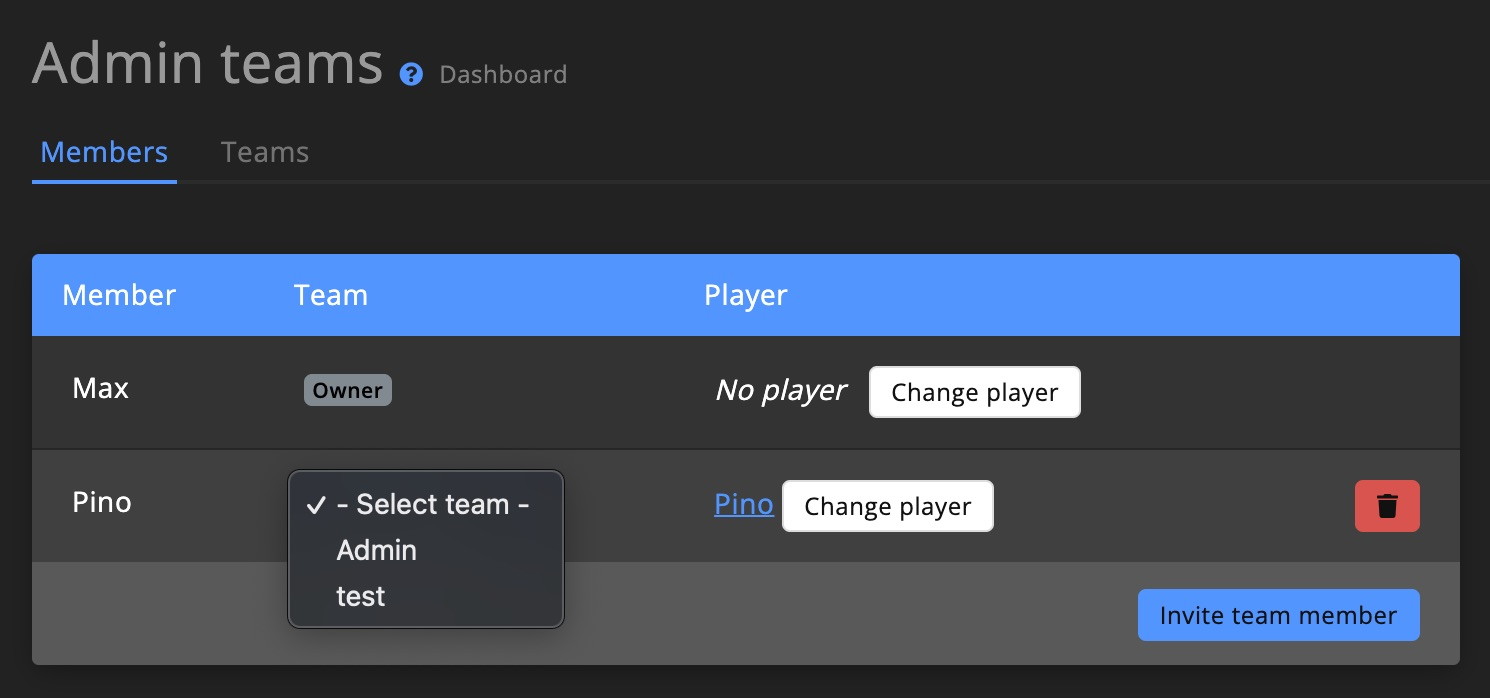
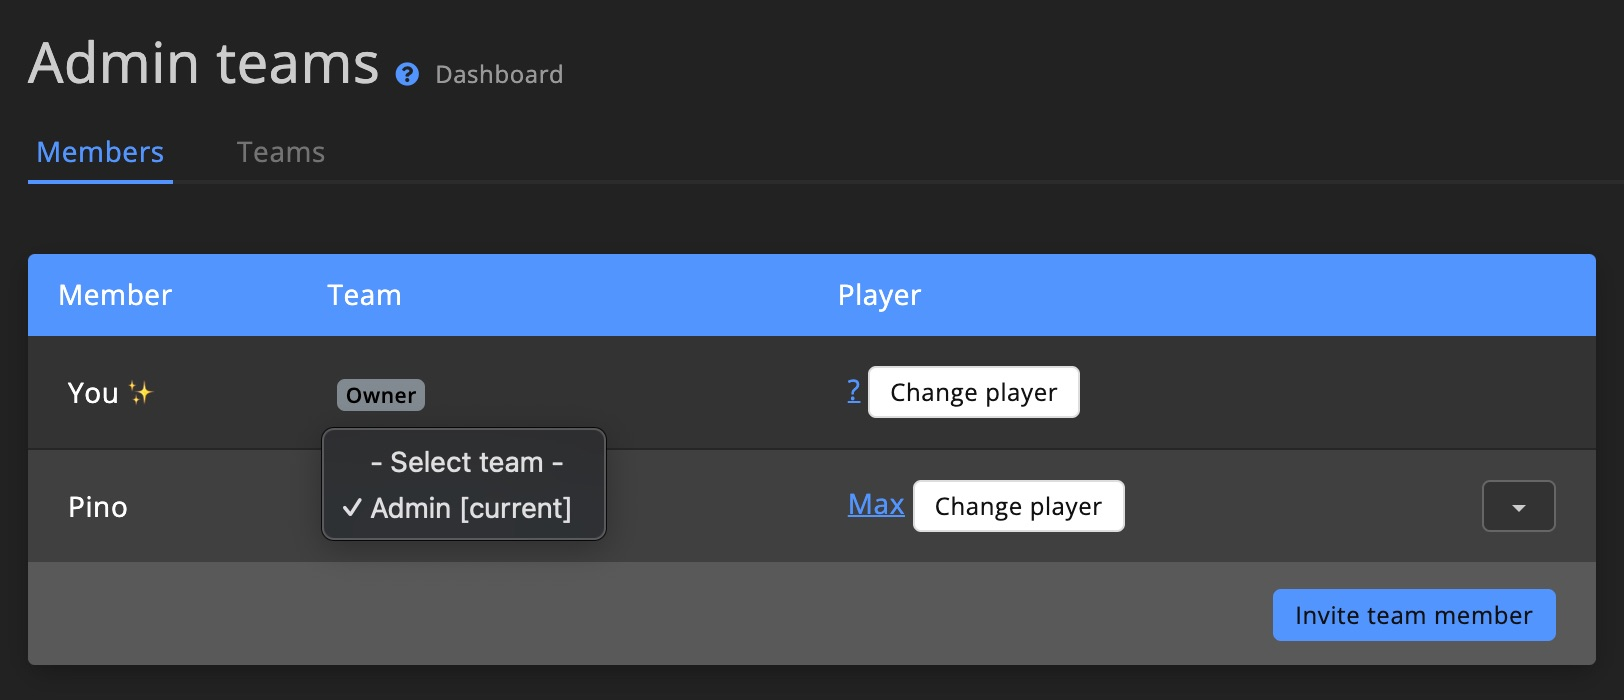
transfer ownership info

diff --git a/Documentation/docs/dashboard/admin_teams.md b/Documentation/docs/dashboard/admin_teams.md
@@ -38,6 +38,16 @@ After inviting admins to the dashboard, you can assign them to an `Admin team`. 
 
 ![Manage admin team member](/img/dashboard/admin_teams/manage_admins.jpg)
 
+### Transfer dashboard ownership
+Dashboards ownership can be transferred to a different team member. When transferring ownership, the current owner will lose all rights to the dashboard. This is a permanent change.
+
+Transferring ownership will revoke all created API keys for the dashboard. 
+
+:::caution
+Ownership transfers are only available for dashboards with an active add-on.
+:::
+
+![Transfer ownership to team member](/img/dashboard/admin_teams/transfer_ownership_1.jpg)
 
 ## Activity logs
 See what team members did. Use the filters on the right to narrow down to specific actions.
